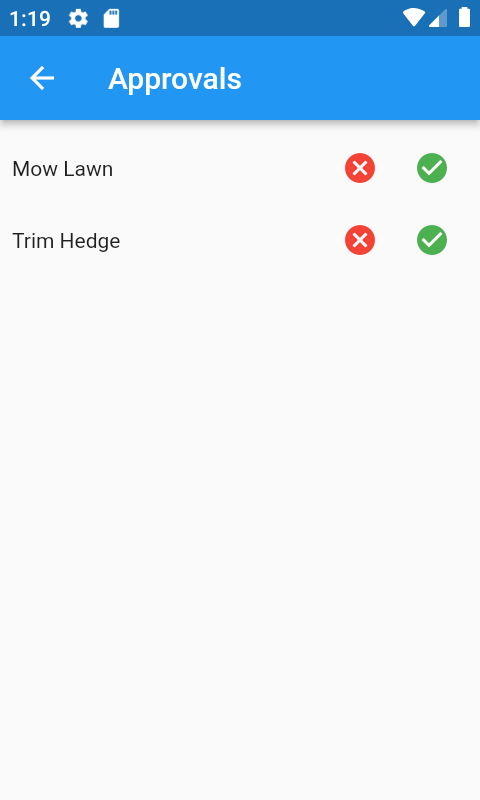
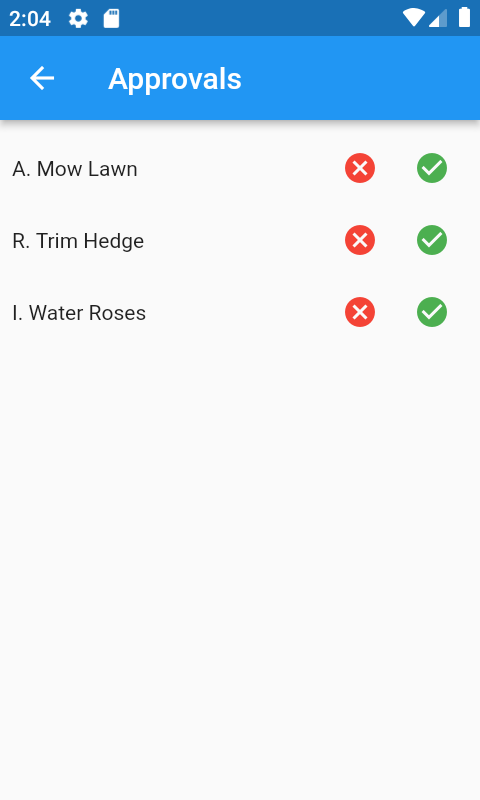
Redo user1 / admin documentation to include 3 items

diff --git a/ancillary/documentation/create-user-1.md b/ancillary/documentation/create-user-1.md
@@ -12,10 +12,10 @@ select * from user;
 +----+----------------------+--------+--------+---------------------+---------------+
 | id | pass_key             | subset | warden | request_offset_secs | registered_ts |
 +----+----------------------+--------+--------+---------------------+---------------+
-|  1 | 72a2a0a6123a29aaa815 |      1 |      1 |                   0 |             0 |
-|  2 | a2a1a1               |      0 |      7 |               14996 |     278528223 |
+|  1 | 9101025213a41aaa2a21 |      1 |      1 |                   0 |             0 |
+|  2 | 1a09a1               |      0 |      7 |                2278 |     278628118 |
 +----+----------------------+--------+--------+---------------------+---------------+
-2 rows in set (0.000 sec)
+2 rows in set (0.001 sec)
 ```
 <div align="center">MySql: User Table</div>
 <hr/>
@@ -25,10 +25,10 @@ select * from user_TR;
 +----+----------------------+--------+--------+---------------------+---------------+----+-----------+---------+---------+--------------------+------+
 | id | pass_key             | subset | warden | request_offset_secs | registered_ts | ts | operation | user_id | user_ts | comment            | crc  |
 +----+----------------------+--------+--------+---------------------+---------------+----+-----------+---------+---------+--------------------+------+
-|  1 | 72a2a0a6123a29aaa815 |      1 |      1 |                   0 |             0 |  1 |         1 |      33 |    NULL | Insert into User   |    0 |
-|  2 | a2a1a1               |      0 |      7 |               14996 |             0 |  3 |         1 |       0 |    NULL | Inserting new user | NULL |
+|  1 | 9101025213a41aaa2a21 |      1 |      1 |                   0 |             0 |  1 |         1 |      33 |    NULL | Insert into User   |    0 |
+|  2 | 1a09a1               |      0 |      7 |                2278 |             0 |  3 |         1 |       0 |    NULL | Inserting new user | NULL |
 +----+----------------------+--------+--------+---------------------+---------------+----+-----------+---------+---------+--------------------+------+
-2 rows in set (0.000 sec)
+2 rows in set (0.001 sec)
 ```
 <div align="center">MySql: User Transaction Table</div>
 <hr/>
@@ -39,9 +39,9 @@ select * from user_store;
 | id | email              | last_seen_ts | name | surname | records_downloaded | changes_approved_count | changes_denied_count |
 +----+--------------------+--------------+------+---------+--------------------+------------------------+----------------------+
 |  1 | write@rockvole.com |            0 | NULL | NULL    |                  0 |                      0 |                    0 |
-|  2 | user1@rockvole.com |    278528223 | NULL | NULL    |                  0 |                      0 |                    0 |
+|  2 | user1@rockvole.com |    278628118 | NULL | NULL    |                  0 |                      0 |                    0 |
 +----+--------------------+--------------+------+---------+--------------------+------------------------+----------------------+
-2 rows in set (0.001 sec)
+2 rows in set (0.000 sec)
 ```
 <div align="center">MySql: User Store Table</div>
 <hr/>
@@ -52,7 +52,7 @@ select * from user_store_TR;
 | id | email              | last_seen_ts | name | surname | records_downloaded | changes_approved_count | changes_denied_count | ts | operation | user_id | user_ts | comment                | crc  |
 +----+--------------------+--------------+------+---------+--------------------+------------------------+----------------------+----+-----------+---------+---------+------------------------+------+
 |  1 | write@rockvole.com |            0 | NULL | NULL    |                  0 |                      0 |                    0 |  2 |         1 |      33 |    NULL | Insert into User Store |    0 |
-|  2 | user1@rockvole.com |    278528223 | NULL | NULL    |                  0 |                      0 |                    0 |  4 |         1 |       0 |    NULL | Inserting new user     | NULL |
+|  2 | user1@rockvole.com |    278628118 | NULL | NULL    |                  0 |                      0 |                    0 |  4 |         1 |       0 |    NULL | Inserting new user     | NULL |
 +----+--------------------+--------------+------+---------+--------------------+------------------------+----------------------+----+-----------+---------+---------+------------------------+------+
 2 rows in set (0.000 sec)
 ```

diff --git a/ancillary/documentation/add-item-phone.md b/ancillary/documentation/add-item-phone.md
@@ -8,8 +8,9 @@
 #### The changes in the phone sqlite database :
 ```roomsql
 select * from task;
-2000000000|Mow Lawn  |0
-2000000001|Trim Hedge|0
+2000000000|A. Mow Lawn|0
+2000000001|R. Trim Hedge|0
+2000000002|I. Water Roses|0
 ```
 <div align="center">Sqllite: Task Table</div><br/>
 <i>Note that the id for 'Mow Lawn' is 2000000000 which is in the user space for storing items.</i><br/>
@@ -17,8 +18,9 @@ select * from task;
 
 ```roomsql
 select * from task_TR;
-2000000000|Mow Lawn  |0|2000000000|1|99|278528407|Insert Task|
-2000000001|Trim Hedge|0|2000000001|1|99|278528414|Insert Task|
+2000000000|A. Mow Lawn|0|2000000000|1|99|278628321|Insert Task|
+2000000001|R. Trim Hedge|0|2000000001|1|99|278628330|Insert Task|
+2000000002|I. Water Roses|0|2000000002|1|99|278628339|Insert Task|
 ```
 <div align="center">Sqllite: Task Transaction Table</div><br/>
 <i>Note that the timestamp for 'Mow Lawn' is 2000000000 which is in the user space for storing items.</i>
@@ -30,8 +32,9 @@ select * from task_TR;
 
 ```roomsql
 select * from task;
-1|Mow Lawn  |0
-2|Trim Hedge|0
+1|A. Mow Lawn|0
+2|R. Trim Hedge|0
+3|I. Water Roses|0
 ```
 <i>Note that the id for 'Mow Lawn' has been changed to 1 since the server has returned a consecutive valid id.</i><br/>
 <div align="center">Sqllite: Task Table</div>
@@ -39,8 +42,9 @@ select * from task;
 
 ```roomsql
 select * from task_TR;
-1|Mow Lawn|0|2000000000|1|99|278528407|Insert Task|
-2|Trim Hedge|0|2000000001|1|99|278528414|Insert Task|
+1|A. Mow Lawn|0|2000000000|1|99|278628321|Insert Task|
+2|R. Trim Hedge|0|2000000001|1|99|278628330|Insert Task|
+3|I. Water Roses|0|2000000002|1|99|278628339|Insert Task|
 ```
 <div align="center">Sqllite: Task Transaction Table</div>
 <hr/>
@@ -49,6 +53,7 @@ select * from task_TR;
 select * from water_line;
 2000000000|1000|11|0
 2000000001|1000|11|0
+2000000002|1000|11|0
 ```
 <div align="center">Sqllite: Water Line Table</div><br/>
 <i>The WATER_STATE=11 which is CLIENT_SENT.</i>
@@ -61,10 +66,11 @@ select * from task;
 +----+------------------+---------------+
 | id | task_description | task_complete |
 +----+------------------+---------------+
-|  1 | Mow Lawn         |             0 |
-|  2 | Trim Hedge       |             0 |
+|  1 | A. Mow Lawn      |             0 |
+|  2 | R. Trim Hedge    |             0 |
+|  3 | I. Water Roses   |             0 |
 +----+------------------+---------------+
-2 rows in set (0.010 sec)
+3 rows in set (0.002 sec)
 ```
 <div align="center">MySql: Task Table</div>
 <hr/>
@@ -74,10 +80,11 @@ select * from task_TR;
 +----+------------------+---------------+----+-----------+---------+-----------+-------------+------+
 | id | task_description | task_complete | ts | operation | user_id | user_ts   | comment     | crc  |
 +----+------------------+---------------+----+-----------+---------+-----------+-------------+------+
-|  1 | Mow Lawn         |             0 |  5 |         1 |       2 | 278528407 | Insert Task | NULL |
-|  2 | Trim Hedge       |             0 |  6 |         1 |       2 | 278528414 | Insert Task | NULL |
+|  1 | A. Mow Lawn      |             0 |  5 |         1 |       2 | 278628321 | Insert Task | NULL |
+|  2 | R. Trim Hedge    |             0 |  6 |         1 |       2 | 278628330 | Insert Task | NULL |
+|  3 | I. Water Roses   |             0 |  7 |         1 |       2 | 278628339 | Insert Task | NULL |
 +----+------------------+---------------+----+-----------+---------+-----------+-------------+------+
-2 rows in set (0.000 sec)
+3 rows in set (0.001 sec)
 ```
 <div align="center">MySql: Task Transaction Table</div>
 <hr/>
@@ -93,8 +100,9 @@ select * from water_line;
 |        4 |            110 |           1 |           0 |
 |        5 |           1000 |           0 |           0 |
 |        6 |           1000 |           0 |           0 |
+|        7 |           1000 |           0 |           0 |
 +----------+----------------+-------------+-------------+
-6 rows in set (0.000 sec)
+7 rows in set (0.000 sec)
 ```
 <div align="center">MySql: Water Line Table</div><br/>
 <i>The water_line table refers to all of the transactions entered into the database so far.</i>

diff --git a/ancillary/documentation/admin-approve-reject.md b/ancillary/documentation/admin-approve-reject.md
@@ -4,23 +4,24 @@
 
 <img src="images/admin_approvals.png" width="200" />
 
-<i>We will Approve 'Mow Lawn' and Reject 'Trim Hedge'.</i>
+<i>We will Approve 'Mow Lawn', Reject 'Trim Hedge' and Ignore 'Water Roses'.</i>
 <hr/>
 
-### Now view the changes on the server :
+### Now press refresh and then view the changes on the server :
 
 ```roomsql
 select * from task;
 +----+------------------+---------------+
 | id | task_description | task_complete |
 +----+------------------+---------------+
-|  1 | Mow Lawn         |             0 |
+|  1 | A. Mow Lawn      |             0 |
+|  3 | I. Water Roses   |             0 |
 +----+------------------+---------------+
-1 row in set (0.000 sec)
+2 rows in set (0.000 sec)
 ```
 <div align="center">MySql : Task Table</div>
 
-<i>Only Mow Lawn is in task table</i>
+<i>Trim Hedge is no longer in the task table</i>
 <hr/>
 
 ```roomsql
@@ -28,10 +29,11 @@ select * from task_TR;
 +----+------------------+---------------+----+-----------+---------+-----------+-------------+------+
 | id | task_description | task_complete | ts | operation | user_id | user_ts   | comment     | crc  |
 +----+------------------+---------------+----+-----------+---------+-----------+-------------+------+
-|  1 | Mow Lawn         |             0 | 12 |         1 |       2 | 278528407 | Insert Task | NULL |
-|  2 | Trim Hedge       |             0 | 13 |         1 |       2 | 278528414 | Insert Task | NULL |
+|  3 | I. Water Roses   |             0 |  7 |         1 |       2 | 278628339 | Insert Task | NULL |
+|  1 | A. Mow Lawn      |             0 | 11 |         1 |       2 | 278628321 | Insert Task | NULL |
+|  2 | R. Trim Hedge    |             0 | 12 |         1 |       2 | 278628330 | Insert Task | NULL |
 +----+------------------+---------------+----+-----------+---------+-----------+-------------+------+
-2 rows in set (0.000 sec)
+3 rows in set (0.000 sec)
 ```
 <div align="center">MySql : Task Transaction Table</div>
 
@@ -47,16 +49,17 @@ select * from water_line;
 |        2 |            110 |           1 |           0 |
 |        3 |            105 |           1 |           0 |
 |        4 |            110 |           1 |           0 |
-|        7 |            105 |           1 |           0 |
-|        8 |            110 |           1 |           0 |
-|        9 |            105 |           1 |           0 |
+|        7 |           1000 |           0 |           0 |
+|        8 |            105 |           1 |           0 |
+|        9 |            110 |           1 |           0 |
 |       10 |            105 |           1 |           0 |
-|       11 |            110 |           1 |           0 |
-|       12 |           1000 |           1 |           0 |
-|       13 |           1000 |           2 |           0 |
+|       11 |           1000 |           1 |           0 |
+|       12 |           1000 |           2 |           0 |
 +----------+----------------+-------------+-------------+
-11 rows in set (0.000 sec)
+10 rows in set (0.010 sec)
 ```
 <div align="center">MySql : Water Line Table</div>
-<i>On water_ts = 13, the water_state is 2 which corresponds to SERVER_REJECTED</i>
+<i>Where water_ts = 7, the water_state is 0 which corresponds to SERVER_PENDING</i>
+
+<i>Where water_ts = 12, the water_state is 2 which corresponds to SERVER_REJECTED</i>
 <hr/>

diff --git a/ancillary/documentation/create-admin-phone.md b/ancillary/documentation/create-admin-phone.md
@@ -20,9 +20,9 @@ select * from user;
 +----+----------------------+--------+--------+---------------------+---------------+
 | id | pass_key             | subset | warden | request_offset_secs | registered_ts |
 +----+----------------------+--------+--------+---------------------+---------------+
-|  1 | 72a2a0a6123a29aaa815 |      1 |      1 |                   0 |             0 |
-|  2 | a2a1a1               |      0 |      7 |               14996 |     278528223 |
-|  3 |                      |      0 |      5 |               66428 |     278539401 |
+|  1 | 9101025213a41aaa2a21 |      1 |      1 |                   0 |             0 |
+|  2 | 1a09a1               |      0 |      7 |                2278 |     278628118 |
+|  3 |                      |      0 |      5 |               57901 |     278629198 |
 +----+----------------------+--------+--------+---------------------+---------------+
 3 rows in set (0.001 sec)
 ```
@@ -39,8 +39,8 @@ select * from user_store;
 | id | email              | last_seen_ts | name | surname | records_downloaded | changes_approved_count | changes_denied_count |
 +----+--------------------+--------------+------+---------+--------------------+------------------------+----------------------+
 |  1 | write@rockvole.com |            0 | NULL | NULL    |                  0 |                      0 |                    0 |
-|  2 | user1@rockvole.com |    278528223 | NULL | NULL    |                  0 |                      0 |                    0 |
-|  3 | admin@rockvole.com |    278539401 | NULL | NULL    |                  0 |                      0 |                    0 |
+|  2 | user1@rockvole.com |    278628118 | NULL | NULL    |                  0 |                      0 |                    0 |
+|  3 | admin@rockvole.com |    278629198 | NULL | NULL    |                  0 |                      0 |                    0 |
 +----+--------------------+--------------+------+---------+--------------------+------------------------+----------------------+
 3 rows in set (0.000 sec)
 ```
@@ -59,11 +59,11 @@ select * from user;
 +----+----------------------+--------+--------+---------------------+---------------+
 | id | pass_key             | subset | warden | request_offset_secs | registered_ts |
 +----+----------------------+--------+--------+---------------------+---------------+
-|  1 | 72a2a0a6123a29aaa815 |      1 |      1 |                   0 |             0 |
-|  2 | a2a1a1               |      0 |      7 |               14996 |     278528223 |
-|  3 | 02aaa7aa2a916a117a2a |      0 |      5 |               66428 |     278539401 |
+|  1 | 9101025213a41aaa2a21 |      1 |      1 |                   0 |             0 |
+|  2 | 1a09a1               |      0 |      7 |                2278 |     278628118 |
+|  3 | 91aa95a12a4751a071aa |      0 |      5 |               57901 |     278629198 |
 +----+----------------------+--------+--------+---------------------+---------------+
-3 rows in set (0.001 sec)
+3 rows in set (0.000 sec)
 ```
 <div align="center">Mysql: User Table</div>
 

diff --git a/ancillary/documentation/setup-write-server.md b/ancillary/documentation/setup-write-server.md
@@ -12,9 +12,9 @@ select * from user;
 +----+----------------------+--------+--------+---------------------+---------------+
 | id | pass_key             | subset | warden | request_offset_secs | registered_ts |
 +----+----------------------+--------+--------+---------------------+---------------+
-|  1 | 72a2a0a6123a29aaa815 |      1 |      1 |                   0 |             0 |
+|  1 | 9101025213a41aaa2a21 |      1 |      1 |                   0 |             0 |
 +----+----------------------+--------+--------+---------------------+---------------+
-1 row in set (0.000 sec)
+1 row in set (0.001 sec)
 ```
 <div align="center">MySql</div>
 <hr/>
